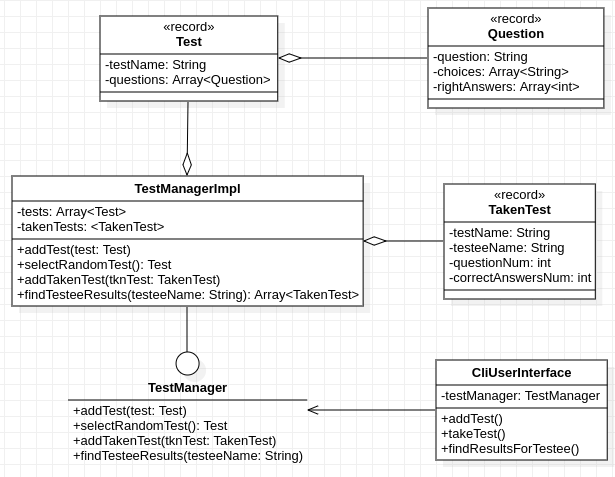
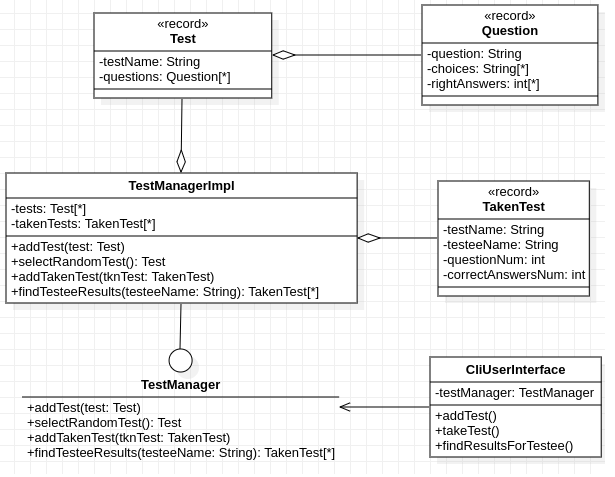
some minor fixes in class diagrams; added record and lambda example

Changed region(s): [[0.0, 0.0, 1.0, 0.9979]]

diff --git a/src/main/java/edu/tucn/isp/ex0/RecordWithLambdaExample.java b/src/main/java/edu/tucn/isp/ex0/RecordWithLambdaExample.java
@@ -1,0 +1,53 @@
+package edu.tucn.isp.ex0;
+
+import java.util.function.Predicate;
+
+/**
+ * @author Radu Miron
+ */
+
+record Person(String firstName, String lastName, int age) {
+}
+
+public class RecordWithLambdaExample {
+    private static final String JOHNSON = "Johnson";
+    private static final String JANE = "Jane";
+
+    public static void main(String[] args) {
+        Person[] people = {
+                new Person("John", "Doe", 25),
+                new Person(JANE, "Doe", 26),
+                new Person("John", JOHNSON, 27),
+                new Person(JANE, JOHNSON, 28),
+                new Person("Jim", "Cramer", 29),
+                new Person("Kim", "Costelo", 30),
+        };
+
+        // filter by last name
+        Predicate<Person> filterByLastName = person -> JOHNSON.equals(person.lastName());
+        System.out.println("Persons with last name " + JOHNSON);
+        displayFilteredPersons(people, filterByLastName);
+
+        // filter by first name and age
+        System.out.printf("Persons with last name %s and age > 27\n", JANE);
+        displayFilteredPersons(
+                people,
+                person -> JANE.equals(person.firstName()) && person.age() > 27);
+
+    }
+
+    public static void displayFilteredPersons(Person[] people, Predicate<Person> filter) {
+        for (Person person : people) {
+            if (filter.test(person)) {
+                System.out.println(person);
+            }
+        }
+
+        //alternative implementation
+//        Arrays.stream(people)
+//                .filter(filter)
+//                .forEach(System.out::println);
+//
+        System.out.println();
+    }
+}

diff --git a/src/main/java/edu/tucn/isp/ex0/LocalDateExample.java b/src/main/java/edu/tucn/isp/ex0/LocalDateExample.java
@@ -6,7 +6,6 @@ import java.time.format.DateTimeFormatter;
 
 /**
  * @author Radu Miron
- * @version 1
  */
 public class LocalDateExample {
     public static void main(String[] args) {

diff --git a/readme.MD b/readme.MD
@@ -2,7 +2,7 @@
 
 In this lab you will create two small Java applications by using UML diagrams as reference. Please consider following general notes before start implementing:
 
-1. Look at some LocalDate examples in edu.tucn.isp.ex0.LocalDateExample
+1. Look at some LocalDate examples in edu.tucn.isp.ex0.LocalDateExample and edu.tucn.isp.ex0.RecordWithLambdaExample
 2. Create the Java application based on the provided UML diagrams.
 3. Add needed constructors, getters, setters, toString() and any other method you consider necessary.
 4. Implement the main method in edu.tucn.isp.ex(1|2).Exercise(1|2).
